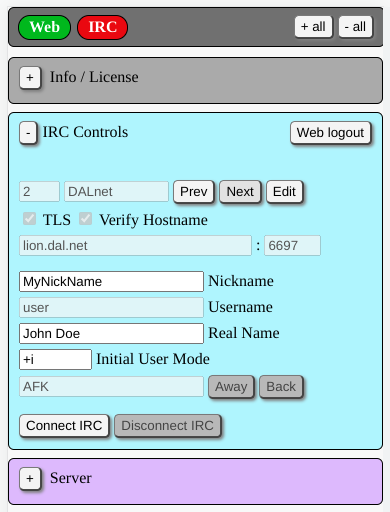
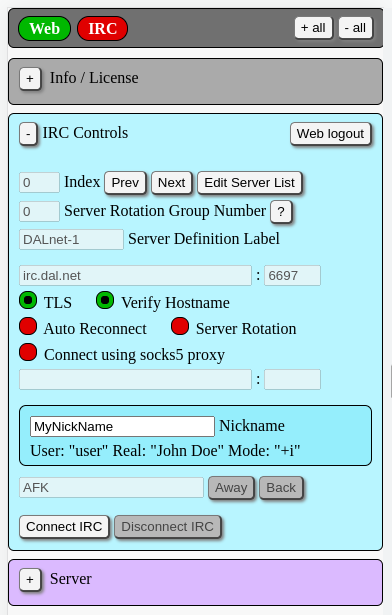
Update /docs help files and and few new screen captures

diff --git a/docs/server-config.html b/docs/server-config.html
@@ -81,7 +81,7 @@
         <div class="home-detail">
           <div class="image-text">
             <p>
-              The server list editor web page can be invoked by clicking the [Edit]
+              The server list editor web page can be invoked by clicking the [Edit Server List]
               button located on the &quot;IRC Controls&quot; panel of the IRC web client.
             </p>
             <p>
@@ -94,7 +94,7 @@
             </p>
           </div>
           <div class="image-photo">
-            <img src=images/server-list-button.png width="525" height="313"alt="Server List Edit Button">
+            <img src=images/server-list-button.png width="436" height="302"alt="Server List Edit Button">
           </div>
         </div>
 
@@ -108,12 +108,22 @@
           In the far right column, [move-up] buttons may be used to re-order the list.
         </p>
         <p>
-          The [Return to IRC Client] button is a hyper-link back to the IRC client URL at /irc/webclient.html.
+          The disable checkbox is used to prevent an individual server from 
+          being selected using the [Next], [Prev] buttons in the web client.
+          This checkbox may be activated here in the table.
         </p>
         <p>
-          The [Show all columns] button will expand the table to that all IRC server properties are displayed 
-          with IRC server definitions in a single table.
-          Clicking the button a second time will collapse the table to it's original small size.
+          The &quot;group&quot; column shows an integer group number. 
+          Groups are used to configure and define a common group of IRC server definitions.
+          Different IRC servers can be rotated after disconnect from the IRC network.
+          Group 0 is reserved for stand alone servers.
+          In the case where the group number is 1 or greater a rotation group is defined. 
+          If more than 2 server in a group are not disabled and have reconnect enabled, 
+          then up on disconnect the client will automatically rotate IRC server 
+          definitions within a server group.
+        </p>
+        <p>
+          The [Return to IRC Client] button is a hyper-link back to the IRC client URL at /irc/webclient.html.
         </p>
         <p>
           The [Copy] button will duplicate the selected IRC server definition and add the 
@@ -125,7 +135,15 @@
           The [Create New IRC Server] button will open the same form populated with some default values.
         </p>
         <div>
-          <img src=images/server-list.png width="633" height="272"alt="Server Listing Table">
+          <img src=images/server-list.png width="677" height="277"alt="Server Listing Table">
+        </div>
+        <p>
+          The [Show all columns] button will expand the table to that all IRC server properties are displayed 
+          with IRC server definitions in a single table.
+          Clicking the button a second time will collapse the table to it's original small size.
+        </p>
+        <div>
+          <img src=images/server-list-full.png width="1189" height="165"alt="Server Listing Table">
         </div>
 
         <div class="install-section-title">Data Entry</div>
@@ -134,15 +152,47 @@
           After editing is complete, the [Save] button will write the changes to the database file 
           on the web server. The [Cancel] button will leave the data unchanged.
         </p>
+        <p>
+          The disable/hide checkbox is used to prevent an individual server from 
+          being selected using the [Next], [Prev] buttons in the web client.
+        </p>
+        <p>
+          The &quot;group&quot; field shows an integer group number. 
+          Groups are used to configure and define a common group of IRC server definitions.
+          Different IRC servers can be rotated after disconnect from the IRC network.
+          Group 0 is reserved for stand alone servers.
+          In the case where the group number is 1 or greater a rotation group is defined. 
+          If more than 2 server in a group are not disabled and have reconnect enabled, 
+          then up on disconnect the client will automatically rotate IRC server 
+          definitions within a server group.
+        </p>        
         <div class="home-detail">
           <div class="image-text">
+
             <p>
-              The disable/hide checkbox is used to prevent an individual server from 
-              being selected using the [Next], [Prev] buttons in the web client.
-            </p><p>
               The Label is used to provide a descriptive name for an IRC server definition.
               The Label is not otherwise used, and it may contain any arbitrary string values.
               If you are using a small screen smartphone, it is best to keep the Label short.
+            </p>
+            <p>
+              When the reconnect checkbox is checked, after disconnect, the IRC
+              client will attempt to reconnect to IRC. It will use the existing server
+              definition and existing nickname. Server rotation and nickname rotation 
+              are not currently available. It will attempt to re-join up to 5 channels 
+              at the time of disconnection. 
+              This feature does not support channel passwords.
+            </p>
+            <p>
+              At this time there are no provisions to configure a server to 
+              auto-connect to IRC on startup. There is no provision 
+              to auto-join channels on startup
+            </p><p>
+              When the log checkbox is checked, the raw IRC messages from the IRC server
+              are written the file &quot;irc.log&quot; located in the logs folder.
+              Caution should be used as logging of passwords or other bot credentials
+              may occur.
+              This is really intended for debugging. It is recommended to leave
+              this set to false.
             </p>
             <p>
               The IRC server address, port, and TLS settings are similar to other IRC clients.
@@ -176,41 +226,22 @@
               In the client interface, a button will be created for each channel to /JOIN the channel 
               when pressed.
             </p>
-            <p>
-              The IRC services section is optional. 
-              Leave these field empty to disable this feature.
-              The purpose is to send a user IDENTIFY message to a NickServ service. 
-              The command may contain passwords so it is a write-only value and the command
-              may not be viewed from the web page. The command is stored in the 
-              servers.json files on the web server in plain text format.
-              The manual configuration section shown below provides a detailed 
-              explanation and example for services configuration.
-            </p>
           </div>
           <div class="image-photo">
-            <img src=images/server-form.png width="572" height="1014"alt="Server definition form">
+            <img src=images/server-form.png width="566" height="1064"alt="Server definition form">
           </div>
         </div>  
         <p>
-          When the reconnect checkbox is checked, after disconnect, the IRC
-          client will attempt to reconnect to IRC. It will use the existing server
-          definition and existing nickname. Server rotation and nickname rotation 
-          are not currently available. It will attempt to re-join up to 5 channels 
-          at the time of disconnection. 
-          This feature does not support channel passwords.
+          The IRC services section is optional. 
+          Leave these field empty to disable this feature.
+          The purpose is to send a user IDENTIFY message to a NickServ service. 
+          The command may contain passwords so it is a write-only value and the command
+          may not be viewed from the web page. The command is stored in the 
+          servers.json files on the web server in plain text format.
+          The manual configuration section shown below provides a detailed 
+          explanation and example for services configuration.
         </p>
-        <p>
-          At this time there are no provisions to configure a server to 
-          auto-connect to IRC on startup. There is no provision 
-          to auto-join channels on startup
-        </p><p>
-          When the log checkbox is checked, the raw IRC messages from the IRC server
-          are written the file &quot;irc.log&quot; located in the logs folder.
-          Caution should be used as logging of passwords or other bot credentials
-          may occur.
-          This is really intended for debugging. It is recommended to leave
-          this set to false.
-        </p>
+ 
         <p>
           After edit is complete, use the [Save] button, then return to the IRC client and 
           attempt to reconnect using the new IRC server definitions.
@@ -251,12 +282,23 @@
 
         <h2>Server Configuration (each IRC server)</h2>
 
-        <div class="install-section-title">1 - Record name and status</div>
+        <div class="install-section-title">1 - Record Status, Group and Name</div>
 
         <p>
           The &quot;disabled&quot; property is used to prevent an individual server from 
           being selected using the [Next], [Prev] buttons in the web client.
-        </p><p>
+        </p>
+        <p>
+          The &quot;group&quot; column shows an integer group number. 
+          Groups are used to configure and define a common group of IRC server definitions.
+          Different IRC servers can be rotated after disconnect from the IRC network.
+          Group 0 is reserved for stand alone servers.
+          In the case where the group number is 1 or greater a rotation group is defined. 
+          If more than 2 server in a group are not disabled and have reconnect enabled, 
+          then up on disconnect the client will automatically rotate IRC server 
+          definitions within a server group.
+        </p>
+        <p>
           The &quot;name&quot; property is used to provide a descriptive name for an IRC server definition.
           The value is not otherwise used, and it may contain any arbitrary string values.
           If you are using a smartphone, it is best to keep the name short.
@@ -264,6 +306,7 @@
 
 <div class="pre-div"><pre>
   "disabled": false,
+  "group": 0,
   "name": "DALnet",
 </pre></div>
 
@@ -577,6 +620,7 @@
   "serverArray": [
     {
       "disabled": false,
+      "group": 0,
       "name": "DALnet",
       "host": "lion.dal.net",
       "port": 6697,

diff --git a/docs/coding.html b/docs/coding.html
@@ -93,7 +93,11 @@
           <li>Frontend: Compatible with voice dictation on smartphone (IOS).</li>
           <li>Frontend is native JavaScript using only browser APIs</li>
           <li>Browser Content Security Policy (CSP) enforced</li>
+          <li>Implementation of CSRF tokens.</li>
           <li>TLS support for both Web Server and IRC server. Works with Lets Encrypt certificates.</li>
+          <li>IRC server configuration JSON files are remotely configurable from the web interface.</li>
+          <li>Capability to fall back to alternate nickname, option to auto-recover primary nickname</li>
+          <li>Capability to auto-reconnect and/or rotate servers after disconnect</li>
           <li>Reference RFC 2812 However, not all features are implemented.</li>
         </ul>
         <h3>Program Limitations</h3>
@@ -102,7 +106,6 @@
           <li>Message cache limited to 100 lines (enough to ride out a smartphone screen lock)</li>
           <li>Limited to one IRC user per nodejs/express instance. (i.e. Personal web server).</li>
           <li>This is a chat application, not a channel protection bot (no kick/ban enforcement)</li>
-          <li>IRC configuration JSON files are not remotely configurable from the web interface.</li>
           <li>Development done in Chrome for Linux, and Chrome for IOS. Other browsers not tested.</li>
           <li>Development performed on DALnet, other IRC networks not tested.</li>
           <li>No automated tests are included.</li>

diff --git a/docs/api.html b/docs/api.html
@@ -400,6 +400,8 @@ UPDATE
       "verified": true,
       "protocol": "TLSv1.3"
     }
+    "ircServerIndex": 0,
+    "ircServerGroup": 0,
     "ircServerName": "freenode",
     "ircServerHost": "chat.freenode.net",
     "ircServerPort": 7000,
@@ -407,14 +409,16 @@ UPDATE
     "ircTLSVerify": true,
     "ircProxy": false,
     "ircAutoReconnect": true,
+    "ircServerRotation": true,
     "nickName": "myNickName",
     "userName": "myNickName",
     "realName": "myNickName",
     "userMode": "+i",
     "channelList": [],
     "ircServerIndex": 3,
-    "ircServerPrefix": "tildes.freenode.net",
     "userHost": "~someuser@somehose.example.net",
+
+    "ircServerPrefix": "tildes.freenode.net",
     "channels": [
       ""#mychannel"
     ],
@@ -431,7 +435,10 @@ UPDATE
         "kicked": false
       }
     ],
-    "progVersion": "0.1.7",
+    "enableSocks5Proxy": true,
+    "socks5Host": "socks5.example.com",
+    "socks5Port": 10080,
+    "progVersion": "0.2.8",
     "progName": "irc-hybrid-client",
     "times": {
         "programRun": "1624047717",
@@ -439,7 +446,8 @@ UPDATE
     },
     "count": {
         "ircConnect": 1,
-        "ircConnectError": 0
+        "ircConnectError": 0,
+        "ircStateCalls": 20
     },
     "websocketCount": 1
 }

diff --git a/docs/index.html b/docs/index.html
@@ -78,9 +78,10 @@
               screen lock, your nickname will remain present on IRC.
             </p><p>
               The web server maintains a predefined list of IRC servers.
-              A server list editor is available by pressing the [Edit] button.
+              A server list editor is available by pressing the <div Edit="" Server="" List=""></div> button.
               This will open an independent web page that can be used to create, 
               modify, or delete IRC server definitions from the list. 
+              These are described in the <a href="server-config.html">Server-config</a> tab.
             </p><p>
               The [Next] and [Prev] buttons are used to cycle through the 
               list of available IRC server definitions.
@@ -91,7 +92,7 @@
             </p>
           </div>
           <div class="image-photo">
-            <img src=images/irc-login.png width="390" height="512"alt="IRC login form image">
+            <img src=images/irc-login.png width="392" height="615"alt="IRC login form image">
           </div>
         </div>
 
